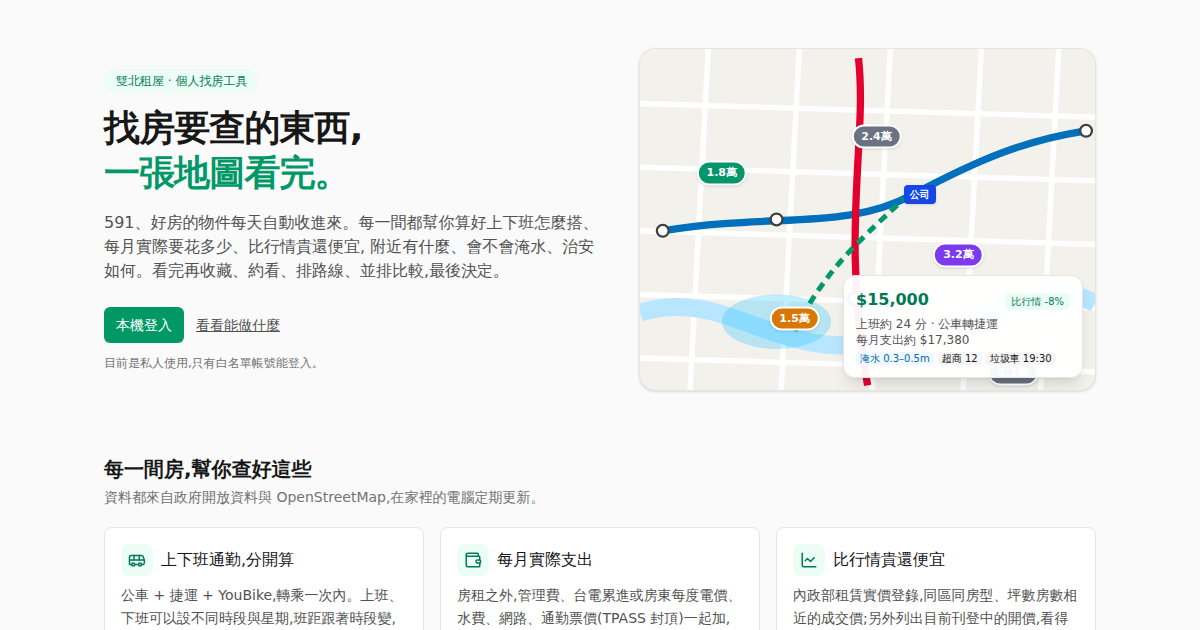
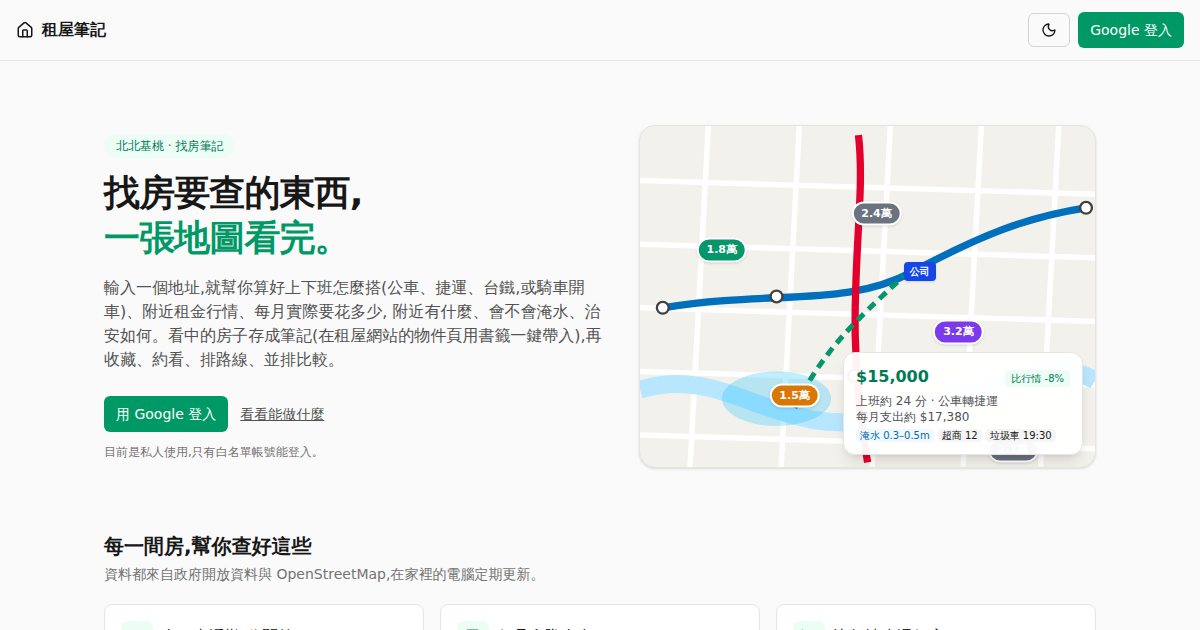
copy: no 591 / scraping claims on public pages; regenerate og.png (scripts/og.mjs)
- og.png was a screenshot of the old About page ('591、好房的物件每天自動收進來',
  asking prices); regenerated from the current page as a logged-out visitor
- About and the bookmarklet card say 'rental sites' instead of naming 591
  (the card still notes that 591 is the one recognised)

Claude-Session: https://claude.ai/code/session_015T9Rci537dEzER8n26Zp8G

diff --git a/src/client/routes/NewPage.tsx b/src/client/routes/NewPage.tsx
@@ -278,11 +278,11 @@ function BookmarkletCard() {
   }, []);
   return (
     <div className="hidden rounded border border-dashed border-neutral-300 px-3 py-2 text-sm text-neutral-600 sm:block dark:border-neutral-700 dark:text-neutral-300">
-      <b className="font-medium">從 591 帶入:</b>把
+      <b className="font-medium">從租屋網頁帶入:</b>把
       <a ref={ref} onClick={(e) => e.preventDefault()} className="mx-1 inline-block cursor-grab rounded bg-emerald-600 px-2 py-0.5 text-xs font-medium text-white" title="拖到書籤列">
         存到租屋筆記
       </a>
-      拖到瀏覽器的書籤列。之後在 591 物件頁按那個書籤,會開新分頁到這裡並帶好租金、坪數、樓層、地址等欄位(由你的瀏覽器讀取,伺服器不會去抓 591)。
+      拖到瀏覽器的書籤列。之後在租屋網站的物件頁按那個書籤,會開新分頁到這裡並帶好租金、坪數、樓層、地址等欄位(由你的瀏覽器讀取,本站伺服器不會去抓那個網站;目前認得 591,其他網站只帶標題與網址)。
     </div>
   );
 }

diff --git a/src/client/routes/AboutPage.tsx b/src/client/routes/AboutPage.tsx
@@ -63,7 +63,7 @@ export function AboutPage() {
           </h1>
           <p className="mt-4 max-w-prose text-neutral-600 dark:text-neutral-400">
             輸入一個地址,就幫你算好上下班怎麼搭(公車、捷運、台鐵,或騎車開車)、附近租金行情、每月實際要花多少,
-            附近有什麼、會不會淹水、治安如何。看中的房子存成筆記(在 591 等網站用書籤一鍵帶入),再收藏、約看、排路線、並排比較。
+            附近有什麼、會不會淹水、治安如何。看中的房子存成筆記(在租屋網站的物件頁用書籤一鍵帶入),再收藏、約看、排路線、並排比較。
           </p>
           <div className="mt-6 flex flex-wrap items-center gap-3">
             {cta}
